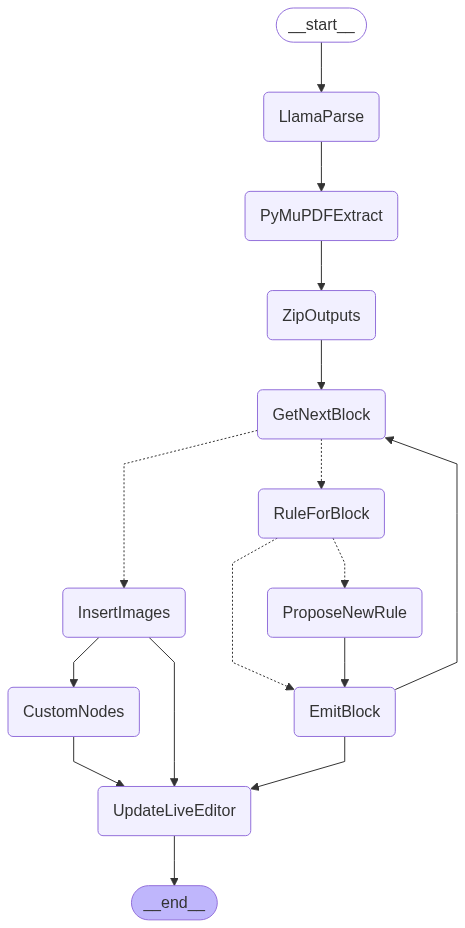
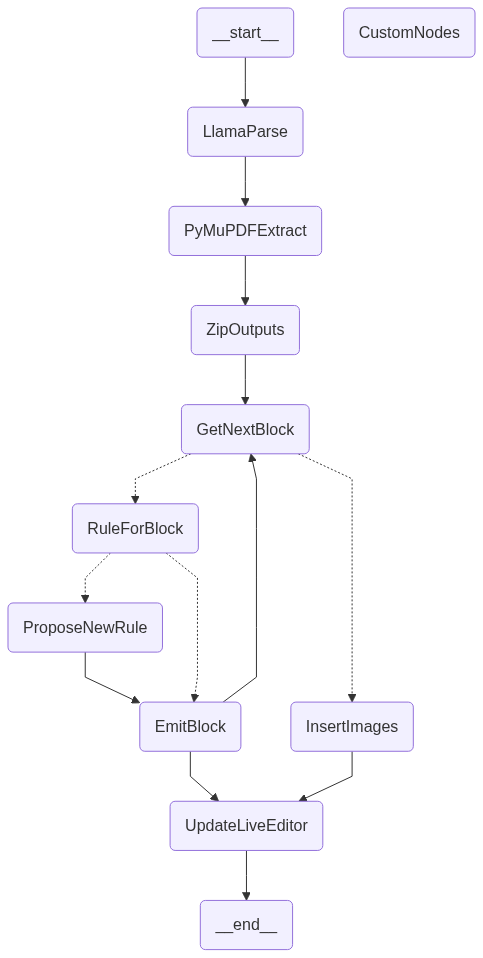
back in business

diff --git a/pipeline.py b/pipeline.py
@@ -209,13 +209,24 @@ def emit_block(state: PipelineState):
     Construct a node using the conversion rule and add it to the prose mirror document.
     """
     print(f"✏  Emiting node using {state.current_block.conversion_rule}")
-    # Get the conversion rule by ID
-    rule_class: Type[ConversionRule] = ConversionRuleRegistry._rules.get(
+
+    # Ensure the registry has been initialised and contains all rules. If the rule
+    # isn't found on the first attempt, trigger discovery and retry once before
+    # giving up.
+    rule_class: Type[ConversionRule] | None = ConversionRuleRegistry._rules.get(
         state.current_block.conversion_rule
     )
-    if not rule_class:
+
+    if rule_class is None:
+        # (Re-)discover rules – this is idempotent and inexpensive after the first run.
+        ConversionRuleRegistry.get_all_rules()
+        rule_class = ConversionRuleRegistry._rules.get(
+            state.current_block.conversion_rule
+        )
+
+    if rule_class is None:
         raise ValueError(
-            f"Conversion rule '{state.current_block.conversion_rule}' not found"
+            f"Conversion rule '{state.current_block.conversion_rule}' not found after registry refresh"
         )
 
     # Create an instance of the rule
@@ -244,8 +255,6 @@ def emit_block(state: PipelineState):
     # Add the constructed node to the prose mirror document content
     updated_content = state.blocks + [constructed_node]
 
-    print(f"Updating blocks {updated_content=}")
-
     return {"blocks": updated_content}
 
 
@@ -258,7 +267,7 @@ def custom_extraction_subgraph(state: PipelineState):
     custom_extraction_graph = build_custom_extraction_graph()
     initial_state = CustomExtractionState(
         pdf_path=state.pdf_path,
-        blcoks=state.blocks,
+        blocks=state.blocks,
         custom_extracted_data=state.custom_extracted_data,
     )
     final_state = custom_extraction_graph.invoke(initial_state)
@@ -313,9 +322,9 @@ def build_pipeline():
     builder.add_edge("EmitBlock", "UpdateLiveEditor")
     builder.add_edge("EmitBlock", "GetNextBlock")
     builder.add_edge("InsertImages", "UpdateLiveEditor")
-    builder.add_edge("InsertImages", "CustomNodes")
-    builder.add_edge("CustomNodes", "UpdateLiveEditor")
-    builder.add_edge("CustomNodes", END)
+    builder.add_edge("InsertImages", END)
+    # builder.add_edge("CustomNodes", "UpdateLiveEditor")
+    # builder.add_edge("CustomNodes", END)
 
     return builder.compile()
 
@@ -345,24 +354,24 @@ if __name__ == "__main__":
     draw_pipeline(graph)
 
     memory = MemorySaver()
-    state = initial_state
+    final_state = None
 
     try:
-        for state_snapshot in graph.stream(
-            initial_state,
+        for state in graph.stream(
+            initial_state.model_dump(),
             config={"memory": memory, "recursion_limit": 500},
-            stream_mode="debug",
+            stream_mode="values",
         ):
-            ## There is a state bug here. It only store the state input so
-            ## the output of the last job wont be saved.
-            payload = state_snapshot.get("payload", None)
-            if payload:
-                input = payload.get("input")
-                if input:
-                    state = input
+            final_state = state
     except Exception as e:
         print(f"Got error: {e=}")
     finally:
-        output_filename = save_output(pdf_path, state)
+        if final_state:
+            output_filename = save_output(pdf_path, final_state)
+        else:
+            print(
+                "Pipeline did not produce a final state. Saving initial state instead."
+            )
+            output_filename = save_output(pdf_path, initial_state.model_dump())
 
     print(f"✅ Pipeline complete. Output saved to: {output_filename}")

diff --git a/post_processing/insert_images.py b/post_processing/insert_images.py
@@ -95,4 +95,5 @@ def insert_images(state):
             # If no spot was found, it belongs at the end
             content.append(image_node)
 
+    print(f"Images inserted. {len(content)} blocks total.")
     return {"blocks": content}
